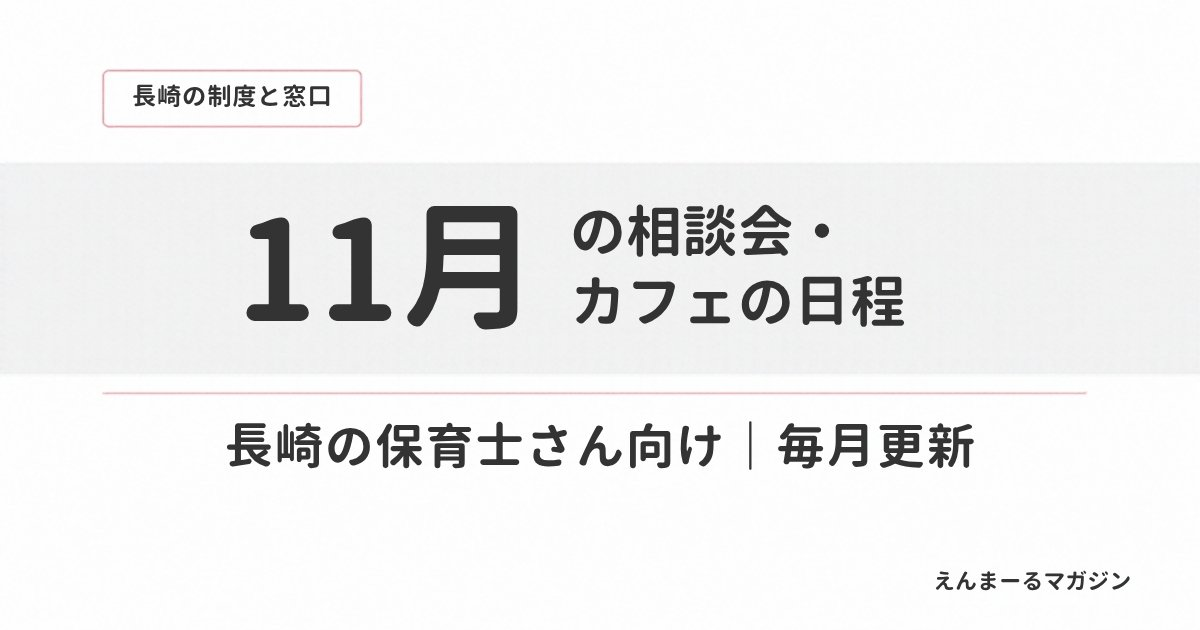
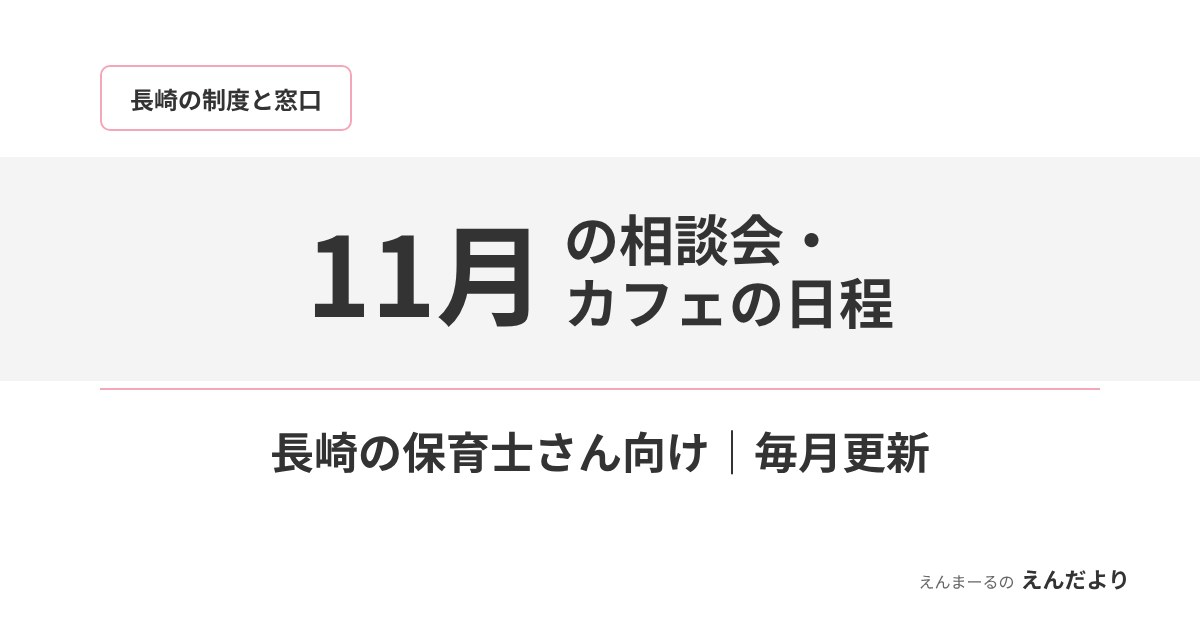
アイキャッチを Canva を使わずコードで作る（npm run eyecatch）。15本を「えんまーるの えんだより」入りで作り直す
Claude-Session: https://claude.ai/code/session_01AX8AoSXs6PgAkqLqAa1ECF

diff --git a/docs/261103_オウンドメディア設計案.md b/docs/261103_オウンドメディア設計案.md
@@ -282,7 +282,18 @@ noindex: false
 
 記事の Markdown の `notionUrl` に Notion のページ URL を入れ、`image` は `/images/articles/<slug>.jpg`（`media/public/images/articles/`）とする。
 
-## 11. アイキャッチ（Canva・単一ファイル）（2026/11/03）
+## 11. アイキャッチ（2026/11/03、2026/11/19 にコードで作る形へ変更）
+
+**2026/11/19 から、アイキャッチは Canva を使わずコードで作る**（Canva の利用回数の上限を気にせず、名前の変更などを全記事に一度に反映できるため）。
+- 記事の frontmatter に `eyecatch`（type: A／B、main・accent または title、sub）を書き、`npm run eyecatch` を実行すると `media/public/images/articles/<slug>.jpg`（1200×630）ができる。指定した記事だけなら `npm run eyecatch -- <slug>`
+- デザインは Canva の型A・型Bと同じ（`media/scripts/eyecatch.mjs`）。ラベルは柱の名前、右下はメディア名（`media/lib/site.ts`）が自動で入る。文字が長いときは枠に収まるまで小さくなる
+- 文字は Noto Sans JP（Google Fonts から読み込む。読み込めないときは止まる）。Playwright（Chromium）が必要
+- 画像はリポジトリに置く（ビルドのときには作らない）。文言を変えたら `npm run eyecatch` → 画像も一緒にコミットする
+- アイキャッチは SNS・LINE で共有されたときの画像（OG画像）にも使うため、JPG にする（SVG は表示されない）。本文の要点スライド・図は、ページに直接埋め込む SVG のまま
+- 以下の Canva の記録は、2026/11/07 までの作り方（Canva ファイルは参照用に残す）
+
+### Canva で作っていたとき（〜2026/11/07）
+
 
 - Canva のファイルは1つだけ: 「メディア アイキャッチ（えんまーるマガジン・全記事）」（https://www.canva.com/d/n6KKbkjRnRK7FvR 、1200×630）。記事ごとに新しいデザインは作らず、同じファイルにページを足す（1記事＝1ページ）
 - ページ構成: 1 使い方／2〜4 型A（制度・お金）・型B（経験・一人称、写真あり）・型C（日程）の雛形／5〜9 長崎の柱の5本／10〜14 スポット・単発の柱の5本／15〜19 短時間で戻る柱の5本。各ページのメモ欄に slug を記録
@@ -299,7 +310,7 @@ noindex: false
 |---|---|---|
 | 柱1・柱2の10本のアイキャッチを Canva のファイルに追加 | 完了（2026/11/07） | 15本すべてを書き出してサイトに配置。記事が増えたら、同じファイルに数本ずつまとめて足す |
 | 長崎の柱の全体像（型B）の写真差し込み | 完了（2026/11/07） | HP の平田さんの写真を使用 |
-| アイキャッチ右下のメディア名を「えんまーるの えんだより」に差し替え | 未着手 | Canva の利用回数を抑えるため、次に記事のアイキャッチを直すときにまとめて15枚を書き出し直す（2026/11/19 メディア名確定） |
+| アイキャッチ右下のメディア名を「えんまーるの えんだより」に差し替え | 完了（2026/11/19） | コードで作る形に変えて15枚を作り直した |
 | アイキャッチの文言の確認 | 平田さん確認待ち | 本文の確認と合わせて見てもらう（数字は本文と同じもの。最低賃金の額は改定時に書き換え） |
 
 - えんまーるでの雇用の形: 雇用契約は園と保育士が直接結ぶ。えんまーるは募集情報を掲載する情報提供プラットフォーム（2026/11/03 LAplust 原崎より）。柱1の記事に反映済み

diff --git a/media/content/articles/hoikushi-spot-haichi-kijun.md b/media/content/articles/hoikushi-spot-haichi-kijun.md
@@ -33,6 +33,12 @@ authorLabel: "監修"
 lead: "この記事は、東京都世田谷区の保育園に10年以上勤務し、保育園長として園運営に携わってきた平田香澄が監修しています。単発・スポットで働く保育士が配置基準の人数に入るのかを、こども家庭庁の通知と配置基準の条文をもとに整理し、単発で入るときに確かめたい仕事の内容もまとめました。"
 draft: true
 noindex: false
+# アイキャッチの文字（npm run eyecatch で画像を作る。ラベルは柱の名前、右下はメディア名が自動で入る）
+eyecatch:
+  type: "A"
+  main: "配置基準"
+  accent: "に入る？"
+  sub: "スポット勤務の保育士とこども家庭庁の通知"
 image: "/images/articles/hoikushi-spot-haichi-kijun.jpg"
 notionUrl: "https://app.notion.com/p/40dc08e5f34c81c99154e073341bef89"
 ---

diff --git a/media/content/articles/hoikushi-tanpatsu-haken.md b/media/content/articles/hoikushi-tanpatsu-haken.md
@@ -41,6 +41,12 @@ authorLabel: "監修"
 lead: "この記事は、東京都世田谷区の保育園に10年以上勤務し、保育園長として園運営に携わってきた平田香澄が監修しています。保育士が30日以内の単発の派遣で働けるのか、例外になる人の条件と、園と直接雇用契約を結ぶスポットワークとの違いを、法令の条文をもとに整理しました。"
 draft: true
 noindex: false
+# アイキャッチの文字（npm run eyecatch で画像を作る。ラベルは柱の名前、右下はメディア名が自動で入る）
+eyecatch:
+  type: "A"
+  main: "単発の派遣"
+  accent: "できる？"
+  sub: "日雇派遣の原則禁止と直接雇用の違い"
 image: "/images/articles/hoikushi-tanpatsu-haken.jpg"
 notionUrl: "https://app.notion.com/p/40dc08e5f34c8160a2b3fe4f0ce4e6ed"
 ---

diff --git a/media/content/articles/hoikushi-spot-cancel.md b/media/content/articles/hoikushi-spot-cancel.md
@@ -35,6 +35,12 @@ authorLabel: "監修"
 lead: "この記事は、東京都世田谷区の保育園に10年以上勤務し、保育園長として園運営に携わってきた平田香澄が監修しています。単発・スポットで働く予定だった日に園の都合でキャンセルされたときの扱いを、厚生労働省のリーフレットと労働基準法をもとに整理しました。"
 draft: true
 noindex: false
+# アイキャッチの文字（npm run eyecatch で画像を作る。ラベルは柱の名前、右下はメディア名が自動で入る）
+eyecatch:
+  type: "A"
+  main: "急なキャンセル"
+  accent: "休業手当"
+  sub: "園の都合で休みになったら｜平均賃金の60%以上"
 image: "/images/articles/hoikushi-spot-cancel.jpg"
 notionUrl: "https://app.notion.com/p/40dc08e5f34c81eeba11f79e309905bc"
 ---

diff --git a/media/content/articles/hoikushi-spot-hajimekata.md b/media/content/articles/hoikushi-spot-hajimekata.md
@@ -45,6 +45,12 @@ authorLabel: "監修"
 lead: "この記事は、東京都世田谷区の保育園に10年以上勤務し、保育園長として園運営に携わってきた平田香澄が監修しています。保育士の資格を持つ方が、単発・スポットで保育の現場に入る前に知っておきたい働き方の種類と注意点を、国の資料をもとにまとめました。"
 draft: true
 noindex: false
+# アイキャッチの文字（npm run eyecatch で画像を作る。ラベルは柱の名前、右下はメディア名が自動で入る）
+eyecatch:
+  type: "A"
+  main: "単発・スポット"
+  accent: "5つの注意"
+  sub: "保育士が働く前に知っておきたいこと"
 image: "/images/articles/hoikushi-spot-hajimekata.jpg"
 notionUrl: "https://app.notion.com/p/40dc08e5f34c81df8ee0c062970b5d9f"
 ---

diff --git a/media/content/articles/hoikushi-spot-erabikata.md b/media/content/articles/hoikushi-spot-erabikata.md
@@ -37,6 +37,12 @@ authorLabel: "監修"
 lead: "この記事は、東京都世田谷区の保育園に10年以上勤務し、保育園長として園運営に携わってきた平田香澄が監修しています。保育士が単発・スポットの仕事に応募する前に確かめておきたい5つのことを、厚生労働省とこども家庭庁の資料をもとにまとめました。"
 draft: true
 noindex: false
+# アイキャッチの文字（npm run eyecatch で画像を作る。ラベルは柱の名前、右下はメディア名が自動で入る）
+eyecatch:
+  type: "A"
+  main: "選ぶ前に"
+  accent: "5つの確認"
+  sub: "雇い主・仕事の内容・安全の確認（日本版DBS）"
 image: "/images/articles/hoikushi-spot-erabikata.jpg"
 notionUrl: "https://app.notion.com/p/40dc08e5f34c8174b7b1dfc69df3c486"
 ---

diff --git a/media/content/articles/nagasaki-shushoku-junbikin.md b/media/content/articles/nagasaki-shushoku-junbikin.md
@@ -33,6 +33,12 @@ sources:
     url: "https://nagasaki-pref-shakyo.jp/work/step-up-loan/nursery-teacher-employment-reserve-fund/"
   - title: "保育士になりたい方、保育士への支援（長崎県）"
     url: "https://www.pref.nagasaki.jp/bunrui/hukushi-hoken/kekkon-nishin-shusan-kosodate/kosodateshien/zinzaikakuho/hoikushi-sien/body.html"
+# アイキャッチの文字（npm run eyecatch で画像を作る。ラベルは柱の名前、右下はメディア名が自動で入る）
+eyecatch:
+  type: "A"
+  main: "就職準備金"
+  accent: "20万円"
+  sub: "2年で返還免除｜長崎県"
 image: "/images/articles/nagasaki-shushoku-junbikin.jpg"
 notionUrl: "https://app.notion.com/p/40dc08e5f34c81658de6eb4e6d484d51"
 authorLabel: "執筆・監修"

diff --git a/media/content/articles/nagasaki-hoikushi-fukushoku-shien.md b/media/content/articles/nagasaki-hoikushi-fukushoku-shien.md
@@ -43,6 +43,11 @@ sources:
     url: "https://jsite.mhlw.go.jp/nagasaki-roudoukyoku/content/contents/press-26092902.pdf"
   - title: "最低賃金制度の概要（厚生労働省）"
     url: "https://www.mhlw.go.jp/stf/seisakunitsuite/bunya/koyou_roudou/roudoukijun/chingin/newpage_43875.html"
+# アイキャッチの文字（npm run eyecatch で画像を作る。ラベルは柱の名前、右下はメディア名が自動で入る）
+eyecatch:
+  type: "B"
+  title: "保育士に戻る\nときの支援まとめ"
+  sub: "窓口・お金・体験・相談会｜長崎県"
 image: "/images/articles/nagasaki-hoikushi-fukushoku-shien.jpg"
 notionUrl: "https://app.notion.com/p/40dc08e5f34c81dc9c8cccce266a858c"
 authorLabel: "監修"

diff --git a/media/content/articles/nagasaki-hoikushi-event-calendar.md b/media/content/articles/nagasaki-hoikushi-event-calendar.md
@@ -35,6 +35,12 @@ sources:
     url: "https://www.nagasaki-shiencenter.jp/info.shtml?id=26iupUd"
   - title: "保育の仕事合同面談会（長崎県）"
     url: "https://www.pref.nagasaki.jp/bunrui/hukushi-hoken/kekkon-nishin-shusan-kosodate/kosodateshien/kodomo-shisetsu/mendankai/"
+# アイキャッチの文字（npm run eyecatch で画像を作る。ラベルは柱の名前、右下はメディア名が自動で入る）
+eyecatch:
+  type: "A"
+  main: "11月"
+  accent: "の相談会・\nカフェの日程"
+  sub: "長崎の保育士さん向け｜毎月更新"
 image: "/images/articles/nagasaki-hoikushi-event-calendar.jpg"
 notionUrl: "https://app.notion.com/p/40dc08e5f34c81fd8019ecb1ec66bdf4"
 authorLabel: "監修"

diff --git a/media/content/articles/nagasaki-hoikushi-part-jikyu.md b/media/content/articles/nagasaki-hoikushi-part-jikyu.md
@@ -29,6 +29,12 @@ sources:
     url: "https://www.mhlw.go.jp/stf/seisakunitsuite/bunya/koyou_roudou/roudoukijun/chingin/newpage_43899.html"
   - title: "パートタイム・有期雇用労働法の概要（厚生労働省）"
     url: "https://www.mhlw.go.jp/content/11650000/000815524.pdf"
+# アイキャッチの文字（npm run eyecatch で画像を作る。ラベルは柱の名前、右下はメディア名が自動で入る）
+eyecatch:
+  type: "A"
+  main: "最低賃金"
+  accent: "1,087円"
+  sub: "保育士パートの時給の見方｜長崎県"
 image: "/images/articles/nagasaki-hoikushi-part-jikyu.jpg"
 notionUrl: "https://app.notion.com/p/40dc08e5f34c8127b06cda83705d8b70"
 authorLabel: "監修"

diff --git a/media/content/articles/hoippu-guide.md b/media/content/articles/hoippu-guide.md
@@ -39,6 +39,12 @@ sources:
     url: "https://www.nagasaki-shiencenter.jp/info.shtml?id=26gmkzl"
   - title: "保いっぷインスタグラムはじめました！（保いっぷ）"
     url: "https://www.nagasaki-shiencenter.jp/info.shtml?id=26h3pJv"
+# アイキャッチの文字（npm run eyecatch で画像を作る。ラベルは柱の名前、右下はメディア名が自動で入る）
+eyecatch:
+  type: "A"
+  main: "保いっぷ"
+  accent: "の使い方"
+  sub: "登録から見学・職場体験まで"
 image: "/images/articles/hoippu-guide.jpg"
 notionUrl: "https://app.notion.com/p/40dc08e5f34c81f783d3f7b96267695c"
 authorLabel: "監修"

diff --git a/media/content/articles/hoikushi-hoikuhojo-shikakuari.md b/media/content/articles/hoikushi-hoikuhojo-shikakuari.md
@@ -31,6 +31,12 @@ sources:
     url: "https://nagasaki-pref-shakyo.jp/wp-content/uploads/b53398e7a45e7195d6b6874ac937d947-3.pdf"
 draft: true
 noindex: false
+# アイキャッチの文字（npm run eyecatch で画像を作る。ラベルは柱の名前、右下はメディア名が自動で入る）
+eyecatch:
+  type: "A"
+  main: "保育補助"
+  accent: "で戻る"
+  sub: "資格がある人が補助として働くときの扱い"
 image: "/images/articles/hoikushi-hoikuhojo-shikakuari.jpg"
 notionUrl: "https://app.notion.com/p/40dc08e5f34c81c0bdc2d7c8768b08c8"
 authorLabel: "監修"
